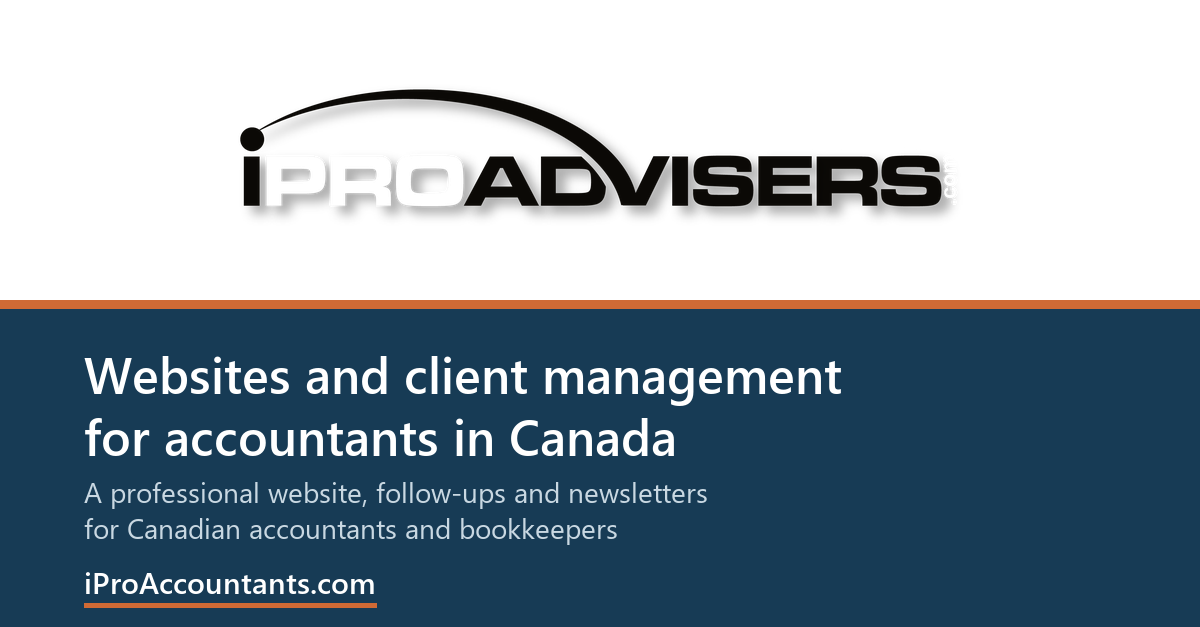
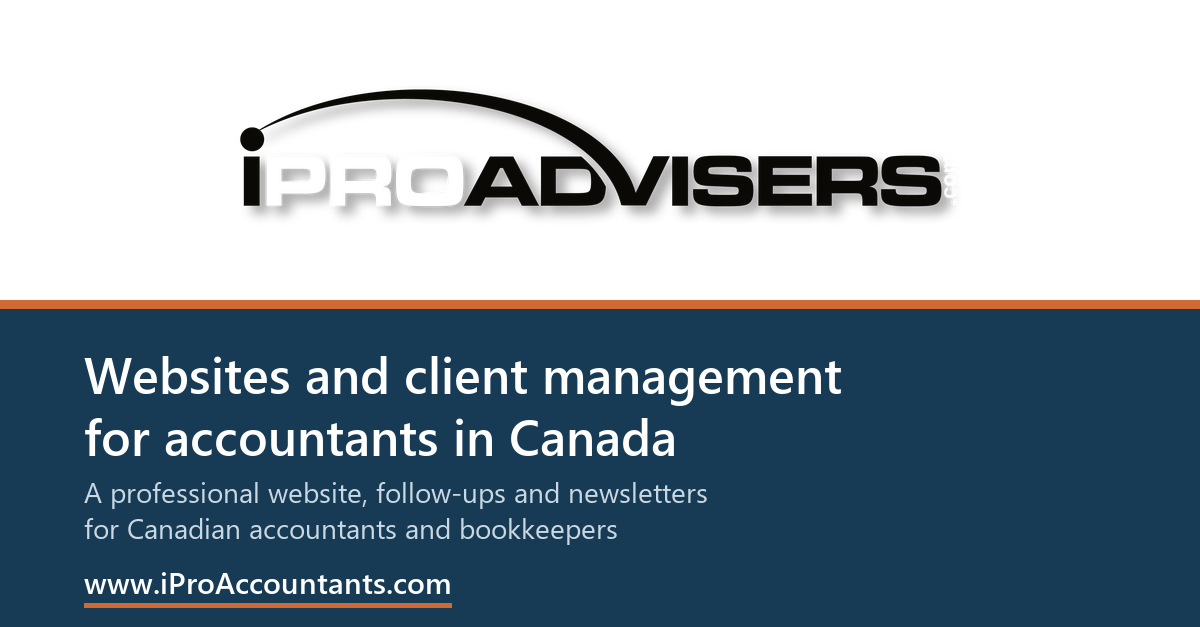
509 follow-up: the share cards keep the www. -- www.iProAdvisers.com, www.iProAccountants.com, www.iProMortgages.com
The owner's rule is the capitals that separate the words; redoing the cards for it I also dropped the www., which he had not meant. The three PNGs and their generator's three strings only; PublicFrontDoor509Tests (it checks the cards' format and size) re-run on the new files, 47/47. TODO 504 item 14 and the handoff say the rule in full.

Changed region(s): [[0.0617, 0.9091, 0.37, 0.9697]]

diff --git a/ops/share-cards/make_share_cards.py b/ops/share-cards/make_share_cards.py
@@ -8,8 +8,9 @@ Segoe UI, with Arial as the fallback). The designer can replace the three PNGs u
 the pages name them in their og:image tags (Views/Home/Index, Accountants, Mortgage), and
 PublicFrontDoor509Tests checks each is a 1200x627 PNG.
 
-The owner's rule for anything a person reads: the brand domains are written iProAdvisers.com,
-iProAccountants.com, iProMortgages.com -- the capitals separate the words (2026-09-21).
+The owner's rule for anything a person reads: the brand domains are written with the capitals that
+separate the words, and the www. stays -- www.iProAdvisers.com, www.iProAccountants.com,
+www.iProMortgages.com (2026-09-21; the first redo dropped the www., which he had not meant).
 """
 import os
 from PIL import Image, ImageDraw, ImageFont
@@ -105,12 +106,12 @@ def card(filename, headline, sub, domain):
 card("ipro-advisers.png",
      "Website, client records, follow-ups and newsletters",
      "One system, one login, one bill for Canadian insurance, financial, accounting and mortgage professionals",
-     "iProAdvisers.com")
+     "www.iProAdvisers.com")
 card("ipro-accountants.png",
      "Websites and client management for accountants in Canada",
      "A professional website, follow-ups and newsletters for Canadian accountants and bookkeepers",
-     "iProAccountants.com")
+     "www.iProAccountants.com")
 card("ipro-mortgages.png",
      "Websites and client management for mortgage advisers in Canada",
      "A professional website, follow-ups and newsletters for Canadian mortgage advisers and brokers",
-     "iProMortgages.com")
+     "www.iProMortgages.com")

diff --git a/DOCS/TODO.md b/DOCS/TODO.md
@@ -222,7 +222,7 @@ If more audit budget is spent, spend it there first; that is the newest code.
 | **501** | **From the owner's own test morning: no starter calculators on a Generic site; the welcome email's link, sign-in sentence and plain-text version -- DEPLOYED 2026-09-19 in `bcf557a`, verified at /health/version on BOTH hosts (build 1efe32c) (owner, 2026-09-19)** | Two days before launch the owner tested from his side: the 7:05 follow-ups email (first real run: two sent, two delivered), the three Deactivate clicks, a real Mortgage sign-up with a promotion code (site live at once, the new menu, the invoice arithmetic), the lead path (both forms, both leads, both notification emails), a Generic sign-up, password reset, a support ticket both ways, and the published phone line. All passed. Two things came out of it. **(1) "Do we need calculators for generic?" No** (owner: yes, remove). 494 gave the Generic edition three "neutral" calculators; on a designer's or a contractor's site a loan schedule and a savings timeline read as a financial template with the labels changed, which is what the Generic pack exists to avoid, and its eight articles fill Resources on their own. `VerticalCalculatorCatalog` returns none for Generic; both builders already skip the section when there are none; any adviser can still put any of the fourteen on any page with the Calculator block. The home page's general sentence "...a Request a Meeting form and Canadian calculators" now ends "...form, plus Canadian calculators on the financial editions", so it stays true. New sites only. **(2) The welcome email:** the site link was `http://` (it worked by redirect; every temporary domain is under the wildcard certificate) -- now `https://`; the box shows a USERNAME above a sentence that said "You sign in with your email address" while the sign-in page asks for a username -- both work, and the sentence now says so; and the PLAIN-TEXT alternative was still the legacy letter ("CONGRATULATIONS! ... one of the most exciting and unique set of tools available on the Internet", no phone number, a promised training "session") -- it now says what the HTML says. **Also in this docs commit:** `DOCS/PAYPAL_LIVE_CUTOVER.md`, the runbook for the sandbox-to-live switch planned for Sunday 20 September, written from the billing code (keep list: the owner's own account and MichaelTran). **Seen in the same test and fixed separately (502):** support-ticket times are printed in UTC in both apps (a ticket written at 12:38 p.m. Eastern reads 4:38 PM), and the status reads "InProgress". Tests red first: `SmallPolish501Tests`, 5, all failing on the old code; 494's two calculator assertions brought up to date. |
 | **502** | **Support tickets: times in the reader's own time zone, and the status as words -- DEPLOYED 2026-09-19 in `d22a982`, verified at /health/version on BOTH hosts (build 197c764) (seen in the owner's support-ticket test)** | The owner opened a ticket from a test adviser at 12:38 p.m. Eastern (SuperAdmin's header clock said so) and BOTH apps stamped the message "4:38 PM": the four support screens printed the stored UTC value as it stood. A customer opening a ticket on launch day would have read a time four hours off, on the one screen where they are already unsure of something. The status badge read "InProgress", the enum's name. **Built:** the portal's two screens show the adviser's own time zone (`SupportTicketDisplay.Time`, the profile's zone, Eastern when unset -- what invoices and Email Activity already do); SuperAdmin's two screens use `AdminClock.Format`, the same zone and "ET" label as its header clock; `SupportTicketStatus.ToDisplayText()` gives "In progress" on all four screens and in SuperAdmin's status picker. Stored values are untouched. Tests red first: `SupportTicketDisplay502Tests`, 11 (7 failing on the old code; the 4 that passed are the controls: SuperAdmin's clock formatter, and the three statuses whose name is already their wording). **Not verifiable from outside** (both screens sit behind a sign-in): the owner reloads ticket #7 in both apps after the deploy. |
 | **503** | **The Billing page names the charge PayPal will actually make when a limited promotion runs out -- DEPLOYED 2026-09-20 in `6fa6434`, verified at /health/version on BOTH hosts (build f35f191) (found in the owner's first real-money test on live PayPal)** | The owner's live test code was 95% off for ONE cycle; after paying $3.39 his Billing page read "Next billing: October 20, 2026 - $3.00 CAD plus applicable taxes" for a subscription PayPal would bill $60.00 plus tax. A limited promotion writes its discounted price into `Billing.Amount` at signup and the row only catches up when the first full-price sale arrives (the sale webhook's Amount sync), one charge too late for the customer reading the page; SuperAdmin's agent details printed the same number. **Built:** `NextCharge` (IPRO.Billing) works out which cycle the next billing date is and gives the price PayPal's plan has for it. The plan behind such a code is N trial cycles then regular ones, and a cycle is spent on every billing date whether or not money moves (a free month sends no sale), so cycles are counted from DATES, never invoices. The promotion is found through the applied change that created THIS billing row (a code spent on an earlier subscription does not follow the agent); the regular price is the one recorded at redemption. Both screens show it; the agent's page says how many discounted cycles are left, or that the promotional price is used up. Stored amounts, invoices and PayPal's charges are untouched. **Known limit, written in the code:** after a DEFERRED first charge (a code on a re-subscription inside a paid period, which only SuperAdmin can arrange) the count runs ahead and the page can announce the regular price early; it errs toward the higher number. Tests red first: `NextCharge503Tests`, 21 (16 failing on the old code; the 5 controls passed before and after). **Until this is live, no limited-cycle code should be published** (told to the owner 20 September). |
-| **504** | **Polish list from the launch weekend (owner's test morning 19 September and the live cutover 20 September) -- OPEN, after launch** | None blocks a customer; each was seen on a real screen. (1) A meeting-request lead is labelled "Contact request". (2) SuperAdmin's Agents list prints "Package 3" where the package name belongs. (3) The "No active subscription... activate your website" banner shows under the paid-through banner. (4) The cancelled and active banners can show together. (5) A comped account reads "Next billing: ... $0.00" -- there is no next billing; say so. (6) SuperAdmin's agent-details times are UTC (502 fixed the support screens only). (7) PayPal Setup's "Webhook Target" hint shows the azurewebsites.net address, not `app.iproadvisers.com`. (8) The invoice does not name the promotion code or the discount. (9) The follow-up list's and the dashboard's "today" is the server's UTC date (INVARIANTS rule 10 says whose day it is). (10) `PayPal__BaseUrl` on ipro-prod-admin still shows the sandbox host on the Setup page (display only; the owner sets it to `https://api-m.paypal.com`). (11) Optional: the customer-service email PayPal shows buyers is the globalbusinesssolution.net address. (12) `/favicon.ico` answers 404 on every public name, the platform included (seen 21 September while proving 507; browsers ask for it on every first visit). (13) A promotion code's **Expires** date is read as the first moment of that day in UTC (8 p.m. Toronto the evening before): a code "expiring 30 September" stops on the evening of the 29th, and one expiring "today" is refused outright with the generic not-valid message -- the owner met exactly that in the free-month test on 21 September, moved the date to the next day, and said to leave it. Until it is changed: set Expires one day after the last day the code should work. Trial invitation codes use the same kind of date box and are worth the same look. (14) The owner's rule, given 21 September on seeing the first share cards: wherever a person READS a brand domain it is written `iProAdvisers.com`, `iProAccountants.com`, `iProMortgages.com` (the capitals separate the words); machine-read addresses stay lower-case. The cards follow it. Three places in the product do not yet: the home page's mock address bar (`app.iproadvisers.com`), SuperAdmin -> Email Setup (`iproadvisers.com`), and the welcome email's `training@IProAdvisers.com` (capital I). |
+| **504** | **Polish list from the launch weekend (owner's test morning 19 September and the live cutover 20 September) -- OPEN, after launch** | None blocks a customer; each was seen on a real screen. (1) A meeting-request lead is labelled "Contact request". (2) SuperAdmin's Agents list prints "Package 3" where the package name belongs. (3) The "No active subscription... activate your website" banner shows under the paid-through banner. (4) The cancelled and active banners can show together. (5) A comped account reads "Next billing: ... $0.00" -- there is no next billing; say so. (6) SuperAdmin's agent-details times are UTC (502 fixed the support screens only). (7) PayPal Setup's "Webhook Target" hint shows the azurewebsites.net address, not `app.iproadvisers.com`. (8) The invoice does not name the promotion code or the discount. (9) The follow-up list's and the dashboard's "today" is the server's UTC date (INVARIANTS rule 10 says whose day it is). (10) `PayPal__BaseUrl` on ipro-prod-admin still shows the sandbox host on the Setup page (display only; the owner sets it to `https://api-m.paypal.com`). (11) Optional: the customer-service email PayPal shows buyers is the globalbusinesssolution.net address. (12) `/favicon.ico` answers 404 on every public name, the platform included (seen 21 September while proving 507; browsers ask for it on every first visit). (13) A promotion code's **Expires** date is read as the first moment of that day in UTC (8 p.m. Toronto the evening before): a code "expiring 30 September" stops on the evening of the 29th, and one expiring "today" is refused outright with the generic not-valid message -- the owner met exactly that in the free-month test on 21 September, moved the date to the next day, and said to leave it. Until it is changed: set Expires one day after the last day the code should work. Trial invitation codes use the same kind of date box and are worth the same look. (14) The owner's rule, given 21 September on seeing the first share cards: wherever a person READS a brand domain it is written `www.iProAdvisers.com`, `www.iProAccountants.com`, `www.iProMortgages.com` -- the capitals separate the words, and the `www.` stays (the first redo of the cards dropped it, which he had not meant; corrected within the hour); machine-read addresses stay lower-case. The cards follow it. Three places in the product do not yet: the home page's mock address bar (`app.iproadvisers.com`), SuperAdmin -> Email Setup (`iproadvisers.com`), and the welcome email's `training@IProAdvisers.com` (capital I). |
 | **505** | **Move `app.` and `admin.iproadvisers.com` to certificates that renew themselves -- OPEN, before 5 October (the hand-renewed ones expire 19 October)** | `DOCS/20_CERTIFICATES.md` records that Azure's managed certificate "was tried in July 2026 and never issued correctly". The cause was found on 20 September during the domain switch: the zone's CAA records (put there by the legacy host for its own AutoSSL) listed Sectigo, Google, GlobalSign and Let's Encrypt, and App Service's managed certificates come from DigiCert, which therefore had to refuse. The owner added `0 issue "digicert.com"` to both zones that day and managed certificates for `www.iproadvisers.com` and `www.iproaccountants.com` then issued in about 13 minutes. So the two hand-renewed Let's Encrypt certificates can now be replaced by managed ones (create, bind SNI, confirm the watchdog reads the new expiry, then retire the lego steps). Needs the owner's go (it changes the SSL bindings of both production apps); do it on a quiet day, not launch week's first mornings. |
 | **506** | **An adviser's own domain with CAA records will never get its certificate, and nothing tells them why -- OPEN, after launch** | Found on our own domains 20 September (`DOCS/DOMAIN_SWITCH_RUNBOOK.md`, step 2): many cPanel hosts publish CAA records for their AutoSSL (Sectigo, Let's Encrypt, ...) and App Service's managed certificates come from DigiCert, so the order `DomainAutomationJob` places sits "in progress" for ever; today the only signal is the 3-hour alert and the adviser sees a certificate warning meanwhile. **To build:** the domain check reads the domain's CAA set (DNS-over-HTTPS is enough) and, when it exists without `digicert.com`, shows the adviser the one record to add (`0 issue "digicert.com"`) on My Website beside the CNAME instruction, and says so in the operator alert. Also worth a line in the Help page's custom-domain section now. |
 | **507** | **`www.iproadvisers.com` and `iproadvisers.com` show the home page under their own name, and search engines are told `www.iproadvisers.com` -- DEPLOYED 2026-09-21 in `05b2dbd`, verified at /health/version on BOTH hosts (build 9b0230c); the setting rewritten at 9:35 a.m. on the owner's go (the advisers pair as `www.iproadvisers.com=/,iproadvisers.com=/`; the app back within a minute); proved from outside with full certificate checking: both names 200 with the home page, canonical and og:url `https://www.iproadvisers.com/` (also when the page is opened at app.), its 8 files 200, deep paths 301 to the platform with `Cache-Control: public, max-age=3600`, the accountants and mortgage names unchanged, the accountants page's links to the home page's sections now at www.iproadvisers.com (the owner, the evening the names went live: "it should stay as www.iproadvisers.com")** | Since 477 the pair answered with a 301 to `https://app.iproadvisers.com/` (the owner's own 11 September call); seeing it live he asked for what 484 gave ipromortgages.com: the name stays in the address bar. His two choices the next morning: the bare name stays too, and `www.iproadvisers.com` is the address Google should treat as the main one. **Built:** an `App:AliasHosts` entry written `name=/` is a brand domain whose own page is the HOME page (served in place with its files; every other path still goes to the platform with path and query kept); a bare `name` keeps only forwarding, so production changes only when the setting is rewritten -- the owner's go, one restart. `PlatformAliasHosts.HomeBase` (the first such name, over https; the platform address when there is none) feeds the home page's canonical tag, og:url, social image and Organization record, and the landing pages' links to the home page's sections. **The trap it exposed:** the forwards went out as 301s with no cache lifetime, which a browser may keep indefinitely, so visitors since Sunday 2:45 p.m. (the owner's own browser included) can keep landing on app. for a while; harmless -- same page -- but check the fix in a private window. Alias redirects stay permanent and now carry `Cache-Control: public, max-age=3600`. Tests red first: `HomeUnderItsOwnName507Tests`, 14 (10 failing on the old code; 4 controls), plus the 484 pin on the landing pages' links rewritten. **Not done on purpose:** the vertical pages (`/accountants`, `/mortgage`), Terms and Privacy still live at `app.iproadvisers.com` when reached from `www.iproadvisers.com`; serving the whole marketing site under `www` is a separate decision. |

diff --git a/DOCS/SESSION_HANDOFF_2026-09-21.md b/DOCS/SESSION_HANDOFF_2026-09-21.md
@@ -44,10 +44,11 @@
   the invoice: the line reads "IPro Gold subscription adjustment" (polish item 8, now the first
   document every free-month customer sees; offered to the owner, his call). He cleans up the test
   account himself (cancel, then delete with the financial tick).
-- **The owner's rule for brand domains in anything a person reads:** `iProAdvisers.com`,
-  `iProAccountants.com`, `iProMortgages.com` -- the capitals separate the words (TODO 504, item 14,
-  lists the three places that do not follow it yet). The share cards were redone that way before
-  509 shipped.
+- **The owner's rule for brand domains in anything a person reads:** `www.iProAdvisers.com`,
+  `www.iProAccountants.com`, `www.iProMortgages.com` -- the capitals separate the words and the `www.`
+  stays (TODO 504, item 14, lists the three places that do not follow it yet). The share cards were
+  redone with the capitals before 509 shipped -- and once more right after it, because that redo had
+  dropped the `www.`, which he had not meant.
 
 ## Pushed today
 
